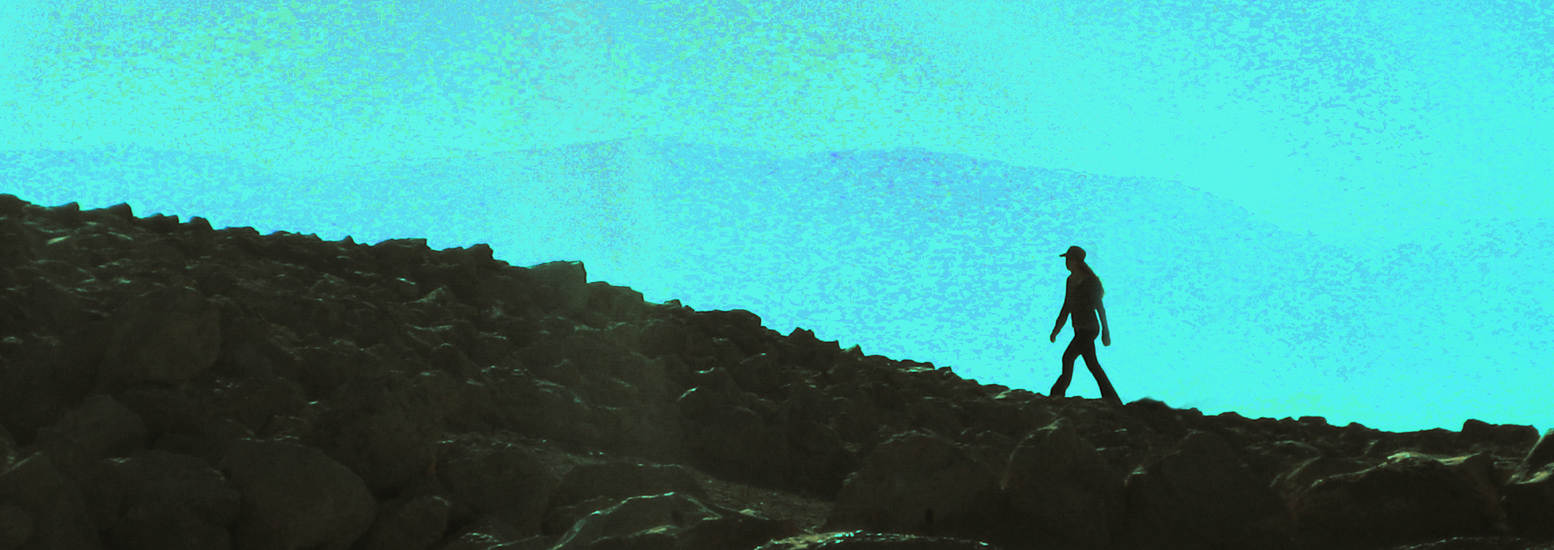
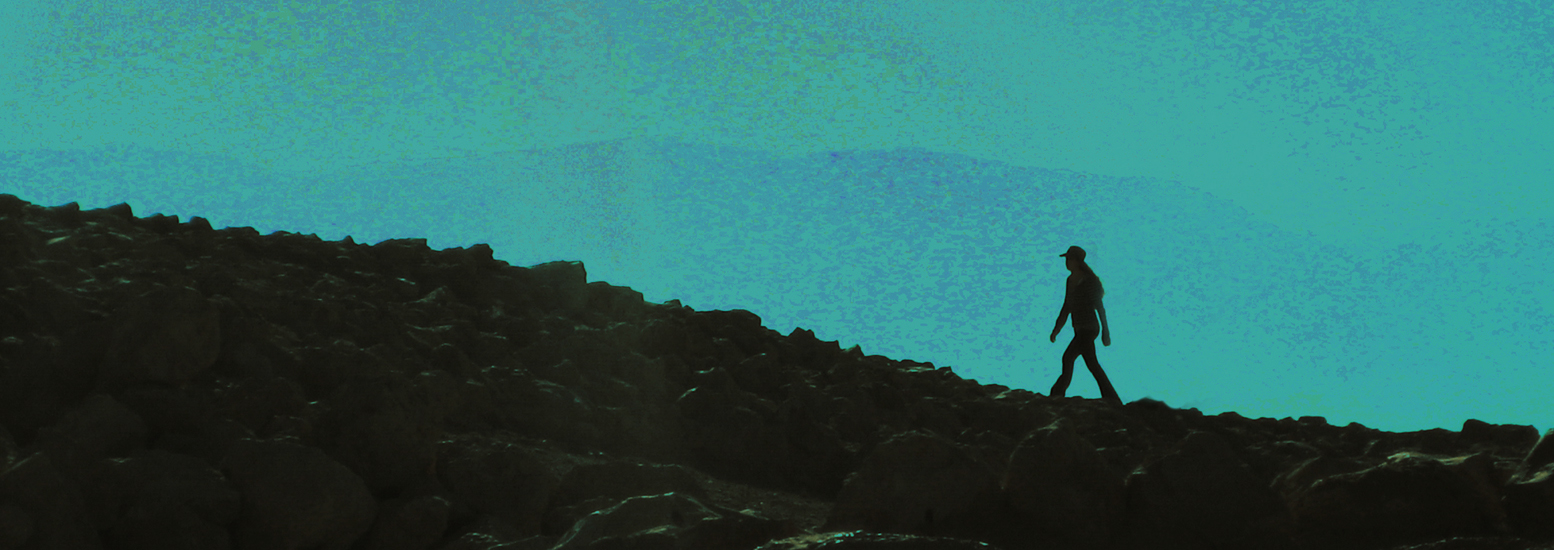
Cleaned up a bit, added text over cover photo

diff --git a/index.html b/index.html
@@ -14,96 +14,96 @@
 </head>
 
 <body>
-	<div class="wrapper">
-		<div class="nav-bar">
-			<a class="nav-bar-item" section="about">About</a>
-			<a class="nav-bar-item" section="code">Code</a>
-			<h1>Talia</h1>
-			<a class="nav-bar-item" section="art">Art</a>
-			<a class="nav-bar-item" section="resume">Resume</a>
-			<a class="nav-bar-item" section="contact">Contact</a>
+	<div class="nav-bar">
+		<a class="nav-bar-item" section="about">About</a>
+		<a class="nav-bar-item" section="code">Code</a>
+		<h1>Talia</h1>
+		<a class="nav-bar-item" section="art">Art</a>
+		<a class="nav-bar-item" section="resume">Resume</a>
+		<a class="nav-bar-item" section="contact">Contact</a>
+	</div>
+	<div class="content">
+		<div class="cover-photo-container">
+		    <img class="cover-photo" src="cover2.jpg">
+		    <div class="cover-photo-text">I can code, draw, and name (almost) every world capitol.</div>
 		</div>
-		<div class="content">
-			<img class="cover-photo" src="cover2.jpg">
-			</img>
-			<div class="intro-section section">
-				<div class="section-content">
-					<p>Hey there! Intro paragraph dood! I'm an intro paragraph</p>
-				</div>
+		<div class="intro-section section">
+			<div class="section-content">
+				<p>Hey there! Intro paragraph dood! I'm an intro paragraph</p>
 			</div>
-			<div class="about-section section">
-				<div class="section-content">
-					<h2>About</h2>
-					<p>Hey there! Intro paragraph dood! I'm an intro paragraph</p>
-				</div>
+		</div>
+		<div class="about-section section">
+			<div class="section-content">
+				<h2>About</h2>
+				<p>Hey there! Intro paragraph dood! I'm an intro paragraph</p>
 			</div>
-			<div class="code-section section">
-				<div class="section-content">
-					<h2>Code</h2>
-					<p>Hey there! Intro paragraph dood! I'm an intro paragraph</p>
-				</div>
+		</div>
+		<div class="code-section section">
+			<div class="section-content">
+				<h2>Code</h2>
+				<p>Hey there! Intro paragraph dood! I'm an intro paragraph</p>
 			</div>
-			<div class="art-section section">
-				<div class="section-content">
-					<h2>Art</h2>
-					<p>Hey there! Intro paragraph dood! I'm an intro paragraph</p>
-					<div class="art-thumbnails">
-						<div class="art-thumbnail-row">
-							<div class="art-thumbnail-container">
-								<img class="art-thumbnail" src="art/cokebottle_thumb.png" pic-src="art/cokebottle.png" />
-								<div class="art-thumbnail-overlay">
-									HIIII
-								</div>
-							</div>
-							<div class="art-thumbnail-container">
-								<img class="art-thumbnail" src="art/car_thumb.png" pic-src="art/car.png" />
-								<div class="art-thumbnail-overlay">
-									HIIII
-								</div>
+		</div>
+		<div class="art-section section">
+			<div class="section-content">
+				<h2>Art</h2>
+				<p>Hey there! Intro paragraph dood! I'm an intro paragraph</p>
+				<div class="art-thumbnails">
+					<div class="art-thumbnail-row">
+						<div class="art-thumbnail-container">
+							<img class="art-thumbnail" src="art/cokebottle_thumb.png" pic-src="art/cokebottle.png" />
+							<div class="art-thumbnail-overlay">
+								HIIII
 							</div>
 						</div>
-						<div class="art-thumbnail-row">
-							<div class="art-thumbnail-container">
-								<img class="art-thumbnail" src="art/hatguy_thumb.png" pic-src="art/hatguy.png" />
-								<div class="art-thumbnail-overlay">
-									HIIII
-								</div>
-							</div>
-							<div class="art-thumbnail-container">
-								<img class="art-thumbnail" src="art/guysitting_thumb.png" pic-src="art/guysitting.png" />
-								<div class="art-thumbnail-overlay">
-									HIIII
-								</div>
+						<div class="art-thumbnail-container">
+							<img class="art-thumbnail" src="art/car_thumb.png" pic-src="art/car.png" />
+							<div class="art-thumbnail-overlay">
+								HIIII
 							</div>
 						</div>
-						<div class="art-thumbnail-row">
-							<div class="art-thumbnail-container">
-								<img class="art-thumbnail" src="art/hopkins_thumb.png" pic-src="art/hopkins.png" />
-								<div class="art-thumbnail-overlay">
-									HIIII
-								</div>
+					</div>
+					<div class="art-thumbnail-row">
+						<div class="art-thumbnail-container">
+							<img class="art-thumbnail" src="art/hatguy_thumb.png" pic-src="art/hatguy.png" />
+							<div class="art-thumbnail-overlay">
+								HIIII
 							</div>
-							<div class="art-thumbnail-container">
-								<img class="art-thumbnail" src="art/logo_thumb.png" pic-src="art/logo.png" />
-								<div class="art-thumbnail-overlay">
-									HIIII
-								</div>
+						</div>
+						<div class="art-thumbnail-container">
+							<img class="art-thumbnail" src="art/guysitting_thumb.png" pic-src="art/guysitting.png" />
+							<div class="art-thumbnail-overlay">
+								HIIII
+							</div>
+						</div>
+					</div>
+					<div class="art-thumbnail-row">
+						<div class="art-thumbnail-container">
+							<img class="art-thumbnail" src="art/hopkins_thumb.png" pic-src="art/hopkins.png" />
+							<div class="art-thumbnail-overlay">
+								HIIII
+							</div>
+						</div>
+						<div class="art-thumbnail-container">
+							<img class="art-thumbnail" src="art/logo_thumb.png" pic-src="art/logo.png" />
+							<div class="art-thumbnail-overlay">
+								HIIII
 							</div>
 						</div>
 					</div>
 				</div>
 			</div>
-			<div class="resume-section section">
-				<div class="section-content">
-					<h2>Resume</h2>
-					<p>Hey there! Intro paragraph dood! I'm an intro paragraph</p>
-				</div>
+		</div>
+		<div class="resume-section section">
+			<div class="section-content">
+				<h2>Resume</h2>
+				<p>Hey there! Intro paragraph dood! I'm an intro paragraph</p>
 			</div>
-			<div class="contact-section section">
-				<div class="section-content">
-					<h2>Contact</h2>
-					<p>Hey there! Intro paragraph dood! I'm an intro paragraph</p>
-				</div>
+		</div>
+		<div class="contact-section section">
+			<div class="section-content">
+				<h2>Contact</h2>
+				<p>Hey there! Intro paragraph dood! I'm an intro paragraph</p>
 			</div>
 		</div>
 	</div>
@@ -129,15 +129,13 @@
 	$('.art-thumbnail-overlay').click(function (e) {
 		var target = $(e.target);
 		var thumbnail = target.parent().find('img.art-thumbnail');
-		var overlayText = target.text();
-		vex.dialog.open({
+		var vexImage = '<img src="' + thumbnail.attr('pic-src') + '"/>';
+		var overlayText = '<div>' + target.text() + '</div>';
+		vex.open({
 			showCloseButton: true,
-			message: overlayText,
-			input: '<img src="' + thumbnail.attr('pic-src') + '"/>',
+			content: overlayText + '<div class="vex-content-image-container">' + vexImage + '</div>',
 			buttons: []
 		});
-		$('.vex-content').css({"width": "650px"});
-		$('.vex-overlay').css({"height":"2000px", "width":"100%"});
 	});
 </script>
 

diff --git a/styles.css b/styles.css
@@ -6,28 +6,7 @@ body {
     margin: 0px;
 }
 
-#container {
-    width: 100px;
-    height: 100px;
-    position: relative;
-}
-
-#navi, 
-#infoi {
-    width: 100%;
-    height: 100%;
-    position: absolute;
-    top: 0;
-    left: 0;
-}
-
-#infoi {
-    z-index: 10;
-}
-
-.wrapper {
-	position: relative;
-}
+/* NAVIGATION BAR ******************************/
 
 .nav-bar {
 	text-align: center;
@@ -75,9 +54,26 @@ body {
      
 }
 
+/* CONTENT BELOW NAV BAR ******************************/
+
 .cover-photo {
 	width: 100%;
 	margin-bottom: -5px;
+	position: relative;
+}
+
+.cover-photo-container { 
+   position: relative; 
+   width: 100%; /* for IE 6 */
+}
+
+.cover-photo-text { 
+	position: absolute; 
+	top: 50%; 
+	width: 100%;
+	text-align: center;
+	font-weight: 800;
+	font-size: 28px;
 }
 
 .section, .nav-bar {
@@ -87,6 +83,8 @@ body {
 .content {
 	color: white;
 }
+
+/* SECTIONS ******************************/
 
 .section {
 	min-height: 300px;
@@ -115,8 +113,14 @@ body {
 }
 
 .art-section {
-	background: #B03EC5;
+	background: #6651A2;
 }
+
+.contact-section {
+	background: #4CDDD1;
+}
+
+/* ART THUMBNAILS ******************************/
 
 .art-thumbnail-row {
 	padding: 0px;
@@ -135,14 +139,20 @@ body {
 .art-thumbnail {
 	position: relative;
 	top: -44px;
+	height: 200px;
+	padding: 0px;
+	border: 1px dotted white;
+	border-radius: 4px;
+	box-shadow: 0px 1px 5px 0.5px rgba(0,0,0,0.5);
 }
 
 .art-thumbnail-overlay {
 	position: absolute;     
-	top: -4px;     
-	left:0px;     
+	top: -23px;
+	left: 1px;   
 	bottom: -3px;     
-	right:0px;     
+	right:0px;
+	border-radius: 4px;     
 	background-color: white;
 	color: black;
 	padding: 5px;
@@ -159,7 +169,24 @@ body {
 	opacity: 0.5;
 }
 
-.contact-section {
-	background: #4CDDD1;
+/* VEX ******************************/
+
+.vex-overlay {
+	height: 2000px;
+	width: 100%;
+}
+
+.vex-content {
+	width: 700px
+}
+
+.vex-content-image-container {
+	max-width: 600px; 
+	margin-top: 35px; 
+	text-align: center;
+}
+
+.vex-content-image-container img {
+	max-width:100%
 }
 
